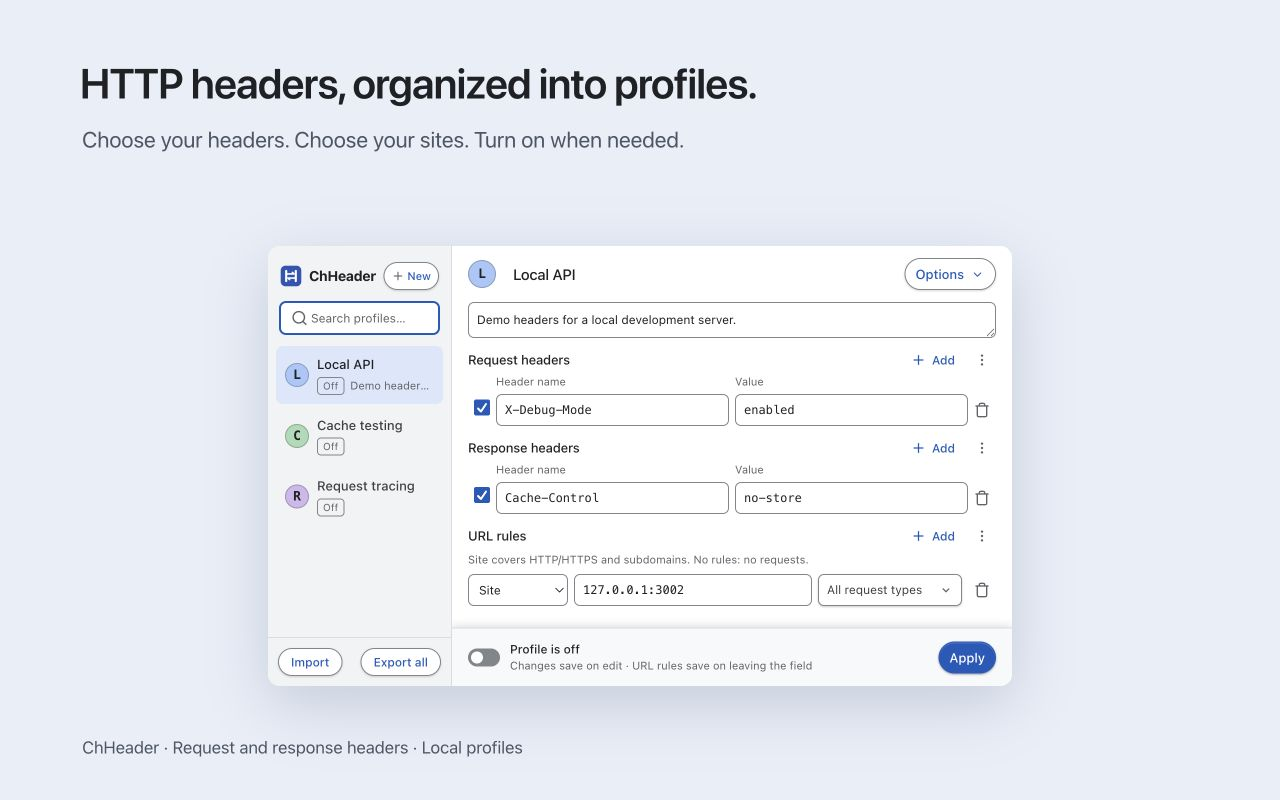
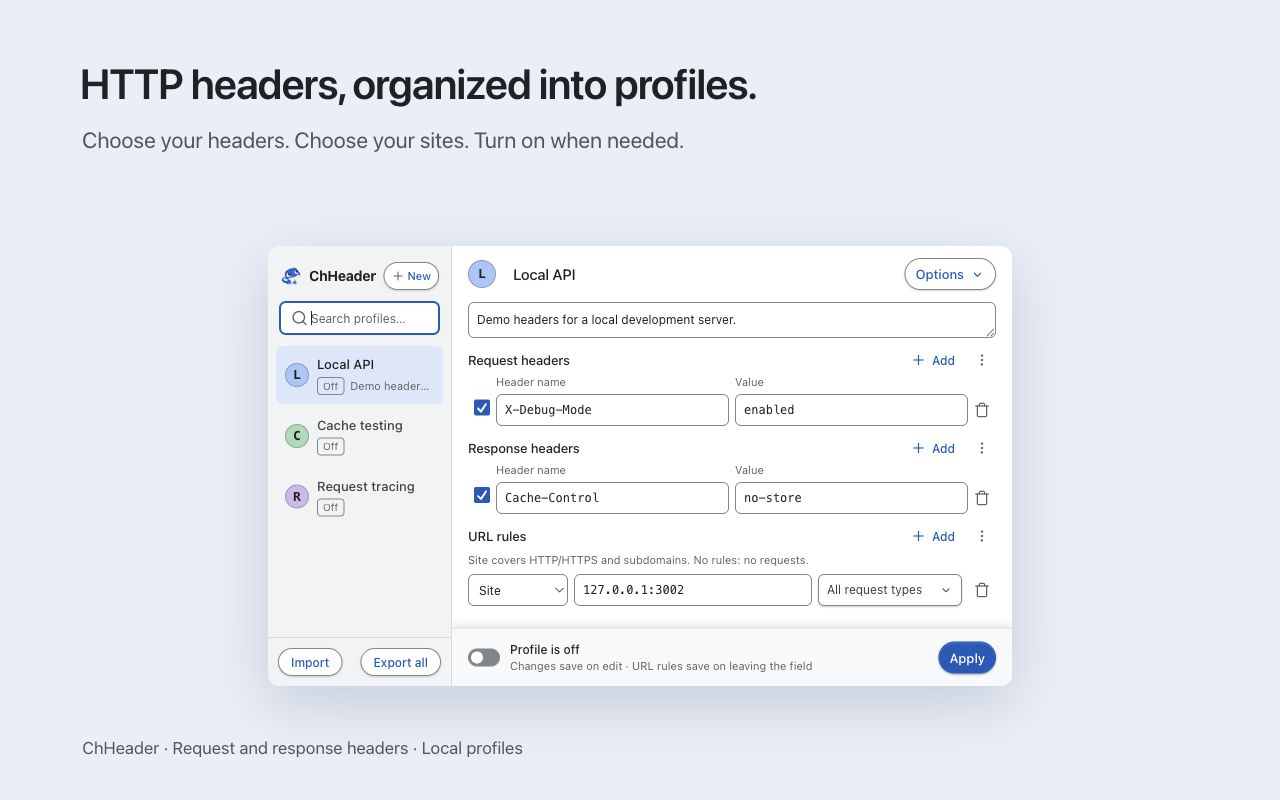
Adopt the blue gecko mascot for ChHeader 0.4.1

diff --git a/src/ui/core/popup-template.ts b/src/ui/core/popup-template.ts
@@ -9,7 +9,7 @@ import { menuItem } from '../components/menus/menu-item'
 import { sectionHeader } from '../components/sections/section-header'
 import folderPlusIcon from '../icons/folder-plus.svg?raw'
 import plusIcon from '../icons/plus.svg?raw'
-import logo from '../../../public/icons/logo.svg?raw'
+import logo from '../../../public/icons/logo.png'
 import searchIcon from '../icons/search.svg?raw'
 import { getProfileColor, PROFILE_COLORS } from './profile-colors'
 import { escapeHtml } from './utils'
@@ -72,7 +72,7 @@ function headersSection(type: 'req' | 'res', title: string, description: string)
 export function getSidebarTemplate(): string {
   return `<aside class="sidebar">
     <div class="sidebar__brand">
-      <div class="sidebar__brand-copy"><span class="brand-mark" aria-hidden="true">${logo}</span><strong>ChHeader</strong></div>
+      <div class="sidebar__brand-copy"><span class="brand-mark" aria-hidden="true"><img src="${logo}" alt="" /></span><strong>ChHeader</strong></div>
       ${solidButton({ id: 'footerNewProfile', text: 'New', icon: plusIcon, variant: 'secondary', size: 'sm', title: 'Add new profile' })}
     </div>
     <div class="sidebar__toolbar">

diff --git a/src/ui/core/styles.css b/src/ui/core/styles.css
@@ -801,7 +801,7 @@ svg {
   height: 22px;
   flex-shrink: 0;
 }
-.brand-mark svg {
+.brand-mark img {
   width: 100%;
   height: 100%;
 }

diff --git a/docs/brand/README.md b/docs/brand/README.md
@@ -1,29 +1,19 @@
 # ChHeader identity
 
-Keep the recognizable product name. The mark shows three header rows with movable
-controls: it reads as a small editing tool even at toolbar size.
+ChHeader’s mascot is a curious blue gecko with cream eyes and tiny toe pads.
+Use the approved [mascot](../../public/icons/gecko.png) for large artwork and
+[logo.png](../../public/icons/logo.png) in the popup. Chrome uses the PNG exports
+at 16, 32, 48 and 128 pixels. Keep the mascot’s proportions and transparent background.
 
-Source artwork: [logo.svg](../../public/icons/logo.svg). The SVG is original vector
-artwork, with PNG exports at 16, 32, 48 and 128 pixels for Chrome.
+The mascot was generated with ChatGPT’s image generator and selected by KahWee Teng.
+Blue remains the interface accent. Profile colors are independent of the brand;
+the popup follows system light and dark appearance.
 
-| Role               | Color     |
-| ------------------ | --------- |
-| Canvas / ink       | `#202124` |
-| Sidebar and fields | `#292a2d` |
-| Raised surface     | `#303238` |
-| Primary text       | `#e8eaed` |
-| Secondary text     | `#bdc1c6` |
-| Accent / logo      | `#a8c7fa` |
-
-Use system UI fonts, restrained borders, compact spacing, and pill-shaped primary
-actions. Profile colors are personal markers; they do not replace the blue brand
-accent. The interface currently has a dark theme and does not follow Chrome's
-custom theme colors automatically.
-
-Regenerate icons with ImageMagick:
+Regenerate the size exports with ImageMagick:
 
 ```sh
+magick public/icons/gecko.png -resize 256x256 public/icons/logo.png
 for size in 16 32 48 128; do
-  magick -background none public/icons/logo.svg -resize "${size}x${size}" "public/icons/${size}.png"
+  magick public/icons/gecko.png -resize "${size}x${size}" "public/icons/${size}.png"
 done
 ```

diff --git a/TESTING.md b/TESTING.md
@@ -293,3 +293,16 @@ finished MP4 decoded without errors. Personal introduction and closing cards ide
 KahWee Teng and invite viewers to build or audit their tools. The video has no narration. The demo is published on
 [YouTube](https://www.youtube.com/watch?v=QAnz_kIL6IQ). Source captures and upload copy
 remain local under `.local/qa/video/`.
+
+## Gecko branding — September 12, 2026
+
+The approved ChatGPT-generated gecko replaces the previous mark in Chrome icon
+exports and the shared popup template. `pnpm check` passed (432 tests), including
+package and Storybook builds. Computer Use reloaded the installed extension as
+0.4.1 and checked the actual toolbar popup at 744 × 440 in light mode; the mascot
+rendered and profiles remained off. No header behavior or permissions changed.
+The refreshed store screenshot uses the production template with isolated demo
+profiles; it is a presentation check, not another network test. The blog image
+uses that same current popup. YouTube's thumbnail was replaced; its published
+footage remains the original 0.4.0 demonstration. Historical captures retain
+what was visible when recorded.

diff --git a/README.md b/README.md
@@ -1,4 +1,4 @@
-<p align="center"><img src="public/icons/logo.svg" width="72" height="72" alt="ChHeader — opposing arrows form an H"></p>
+<p align="center"><img src="public/icons/gecko.png" width="112" height="112" alt="ChHeader’s blue gecko mascot"></p>
 <h1 align="center">ChHeader</h1>
 <p align="center">Edit HTTP request and response headers in Chrome.</p>
 <p align="center"><a href="https://github.com/kahwee/ch-header/releases/latest">Download for Chrome</a> · <a href="TESTING.md">Testing</a> · <a href="RELEASE_NOTES.md">Release notes</a></p>

diff --git a/RELEASE_NOTES.md b/RELEASE_NOTES.md
@@ -1,3 +1,8 @@
+## ChHeader 0.4.1 — prepared for submission
+
+- Blue gecko mascot across the popup, Chrome icons, README and store artwork.
+- No changes to header rules or permissions.
+
 ## ChHeader 0.4.0 — prepared for submission
 
 - Right-click profile actions, recoverable deletion, and explicit On/Off sidebar badges.
